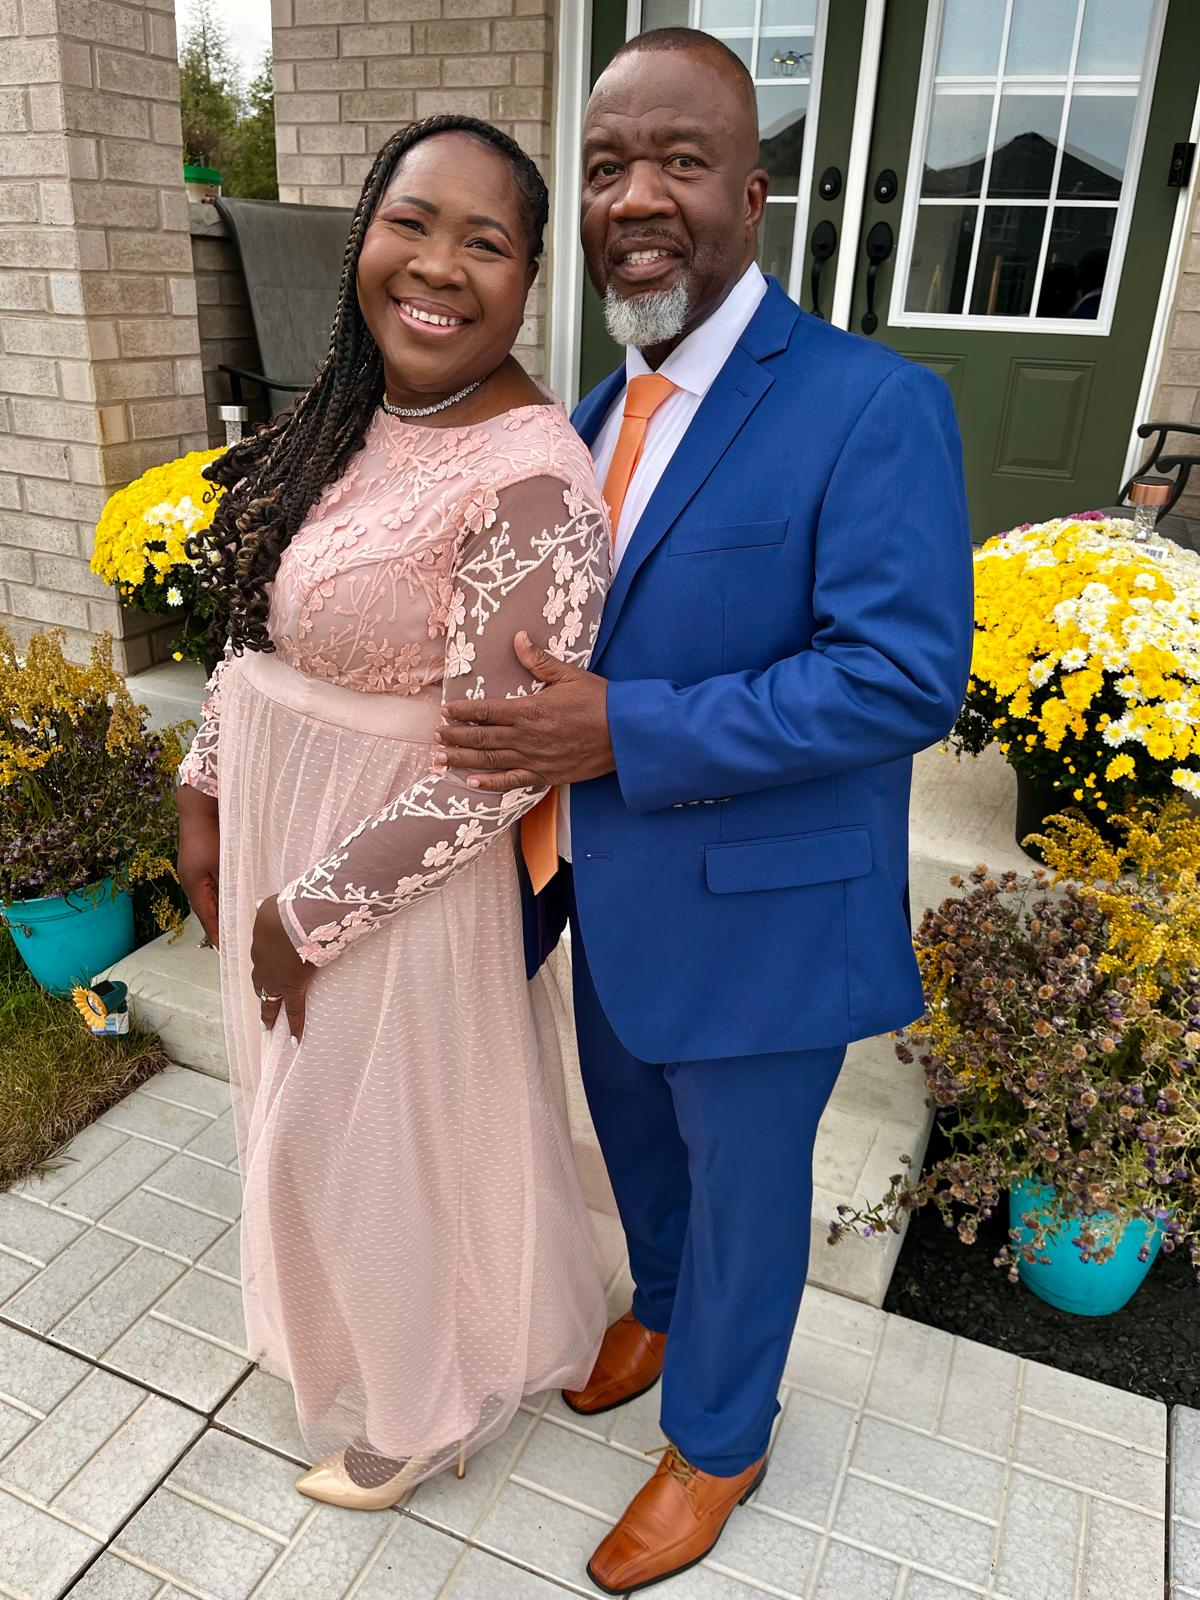
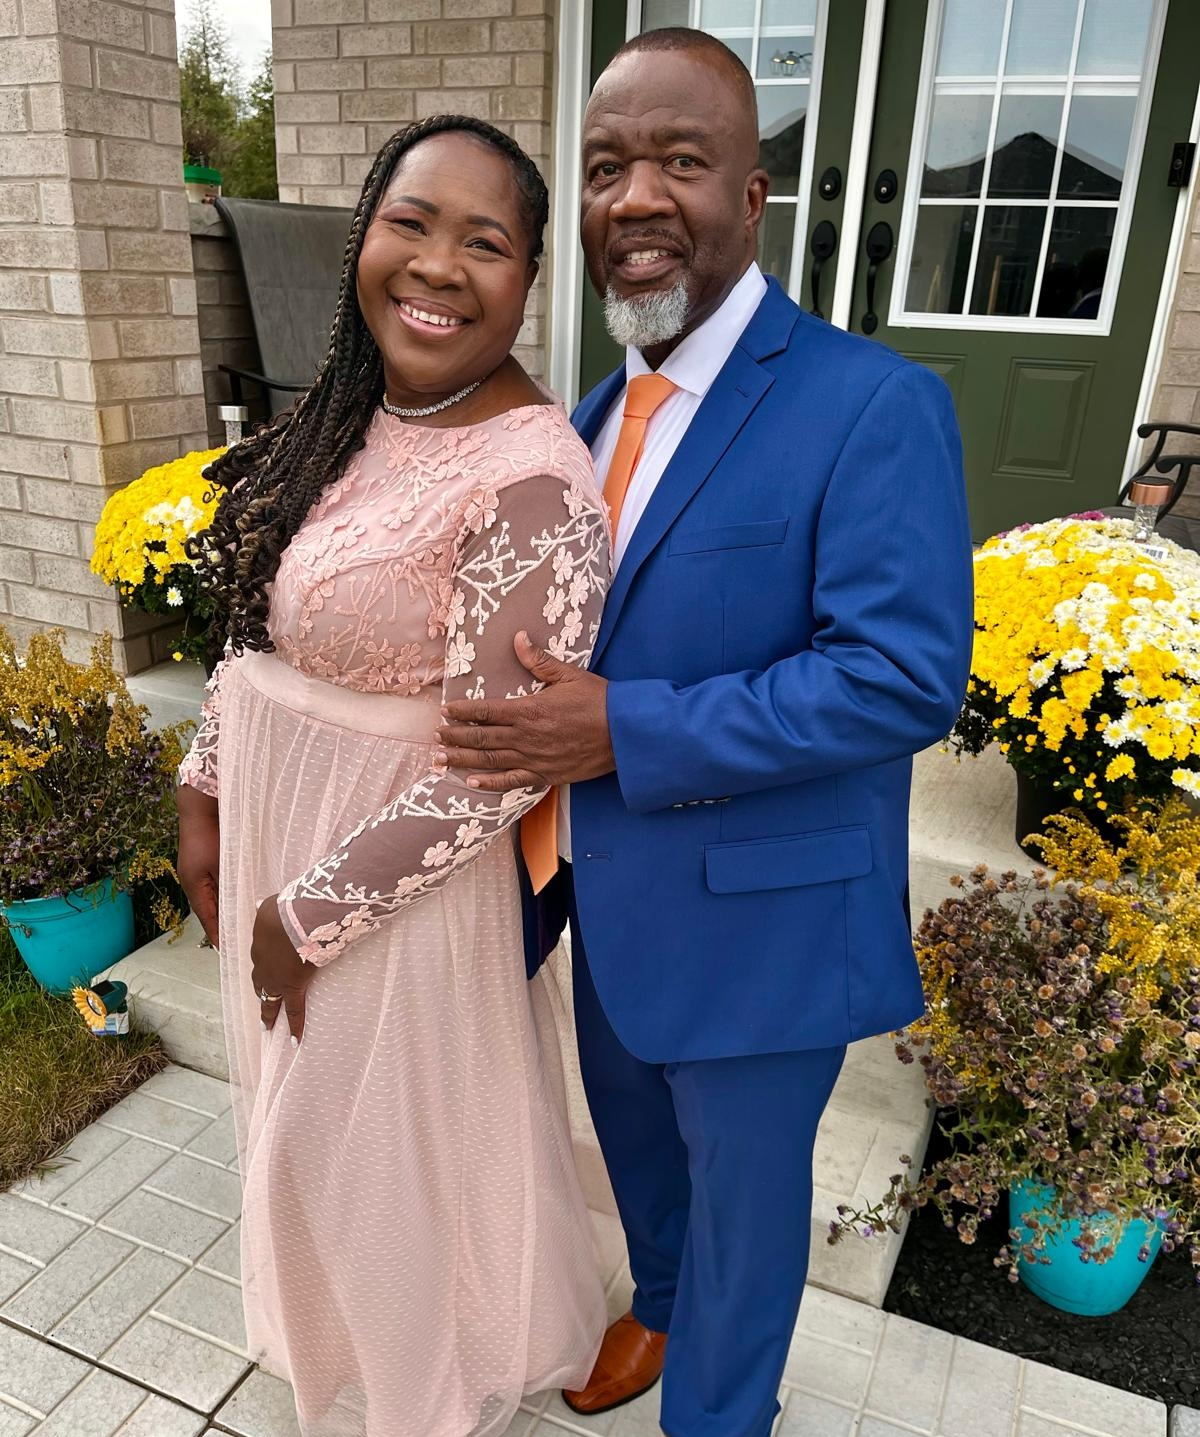
images bigger

diff --git a/index.html b/index.html
@@ -179,15 +179,14 @@
             </div>
     
             <!-- David Portrait Image -->
-            <div class="flex justify-center w-full mb-12">
-                <div
-                    class="relative rounded-2xl overflow-hidden shadow-2xl border border-white/10 bg-white/5 backdrop-blur">
-                    <img src="Images/Dave.jpeg" alt="David Brown"
-                        class="w-40 sm:w-56 md:w-64 lg:w-72 h-auto object-cover"
-                        onerror="this.onerror=null;this.src='https://placehold.co/800x900/000000/FFF?text=Photo+Coming+Soon';" />
-                </div>
-            </div>
-        </div>
+       <div class="flex justify-center w-full mb-12">
+    <div
+        class="relative rounded-2xl overflow-hidden shadow-2xl border border-white/10 bg-white/5 backdrop-blur">
+        <img src="Images/Dave.jpeg" alt="David Brown"
+            class="w-80 sm:w-96 md:w-[28rem] lg:w-[32rem] h-auto object-cover"
+            onerror="this.onerror=null;this.src='https://placehold.co/800x900/000000/FFF?text=Photo+Coming+Soon';" />
+    </div>
+</div>
     
         <!-- Bouncing Arrow -->
         <div class="absolute bottom-6 md:bottom-10 left-1/2 transform -translate-x-1/2 animate-bounce opacity-50">
@@ -548,51 +547,51 @@ We appreciate everything you do, and we’re excited for you to spend more time 
          * Populates the tribute cards on the main page.
          */
         function populateTributes() {
-            const container = document.getElementById('tributes-grid');
-            container.innerHTML = TRIBUTES.map(tribute => `
-                <div 
-                    class="group relative h-[400px] md:h-[500px] rounded-xl overflow-hidden cursor-pointer shadow-2xl tribute-card"
-                    data-tribute-id="${tribute.id}"
+                const container = document.getElementById('tributes-grid');
+                container.innerHTML = TRIBUTES.map(tribute => `
+        <div 
+            class="group relative h-[520px] md:h-[500px] rounded-xl overflow-hidden cursor-pointer shadow-2xl tribute-card"
+            data-tribute-id="${tribute.id}"
+        >
+            <!-- Image -->
+            <img 
+                src="${tribute.image}" 
+                alt="${tribute.author}" 
+                class="w-full h-full object-cover transition-transform duration-700 group-hover:scale-105"
+                onerror="this.onerror=null;this.src='https://placehold.co/600x800/888/333?text=Photo+Missing';"
+            />
+            
+            <!-- Dark Overlay -->
+            <div class="absolute inset-0 bg-gradient-to-t from-black via-black/40 to-transparent opacity-80 group-hover:opacity-90 transition-opacity"></div>
+            
+            <!-- Content Overlay -->
+            <div class="absolute inset-0 flex flex-col justify-end p-6 md:p-8 text-center">
+                <!-- Role/Title: Visible on mobile, fades in on desktop hover -->
+                <p class="text-amber-500 text-[10px] md:text-xs font-bold uppercase tracking-widest mb-2 transition-all duration-500
+                    md:translate-y-4 md:opacity-0 md:group-hover:translate-y-0 md:group-hover:opacity-100"
                 >
-                    <!-- Image -->
-                    <img 
-                        src="${tribute.image}" 
-                        alt="${tribute.author}" 
-                        class="w-full h-full object-cover transition-transform duration-700 group-hover:scale-105"
-                        onerror="this.onerror=null;this.src='https://placehold.co/600x800/888/333?text=Photo+Missing';"
-                    />
-                    
-                    <!-- Dark Overlay -->
-                    <div class="absolute inset-0 bg-gradient-to-t from-black via-black/40 to-transparent opacity-80 group-hover:opacity-90 transition-opacity"></div>
-                    
-                    <!-- Content Overlay -->
-                    <div class="absolute inset-0 flex flex-col justify-end p-6 md:p-8 text-center">
-                        <!-- Role/Title: Visible on mobile, fades in on desktop hover -->
-                        <p class="text-amber-500 text-[10px] md:text-xs font-bold uppercase tracking-widest mb-2 transition-all duration-500
-                            md:translate-y-4 md:opacity-0 md:group-hover:translate-y-0 md:group-hover:opacity-100"
-                        >
-                            ${tribute.role}
-                        </p>
-                        
-                        <h3 class="text-2xl md:text-3xl font-serif text-white mb-6 transform transition-transform duration-500 group-hover:-translate-y-2">${tribute.author}</h3>
-                        
-                        <!-- Button: Visible on mobile, fades in on desktop hover -->
-                        <div class="transition-all duration-500 delay-100 
-                            md:translate-y-8 md:opacity-0 md:group-hover:translate-y-0 md:group-hover:opacity-100"
-                        >
-                            <button class="inline-flex items-center gap-2 px-5 py-2 bg-amber-600/20 border border-amber-500/50 rounded-full text-amber-300 text-xs md:text-sm uppercase tracking-wide hover:bg-amber-600 hover:text-white transition-all read-tribute-btn">
-                                Read Tribute
-                            </button>
-                        </div>
-                    </div>
+                    ${tribute.role}
+                </p>
+                
+                <h3 class="text-2xl md:text-3xl font-serif text-white mb-6 transform transition-transform duration-500 group-hover:-translate-y-2">${tribute.author}</h3>
+                
+                <!-- Button: Visible on mobile, fades in on desktop hover -->
+                <div class="transition-all duration-500 delay-100 
+                    md:translate-y-8 md:opacity-0 md:group-hover:translate-y-0 md:group-hover:opacity-100"
+                >
+                    <button class="inline-flex items-center gap-2 px-5 py-2 bg-amber-600/20 border border-amber-500/50 rounded-full text-amber-300 text-xs md:text-sm uppercase tracking-wide hover:bg-amber-600 hover:text-white transition-all read-tribute-btn">
+                        Read Tribute
+                    </button>
                 </div>
-            `).join('');
+            </div>
+        </div>
+    `).join('');
 
-            // Add click listeners to the dynamically created cards
-            document.querySelectorAll('.tribute-card').forEach(card => {
-                card.addEventListener('click', (e) => {
-                    const id = card.getAttribute('data-tribute-id');
-                    showTributeDetail(id);
+                // Add click listeners to the dynamically created cards
+                document.querySelectorAll('.tribute-card').forEach(card => {
+                    card.addEventListener('click', () => {
+                        const id = card.getAttribute('data-tribute-id');
+                        showTributeDetail(id);
                 });
             });
         }
